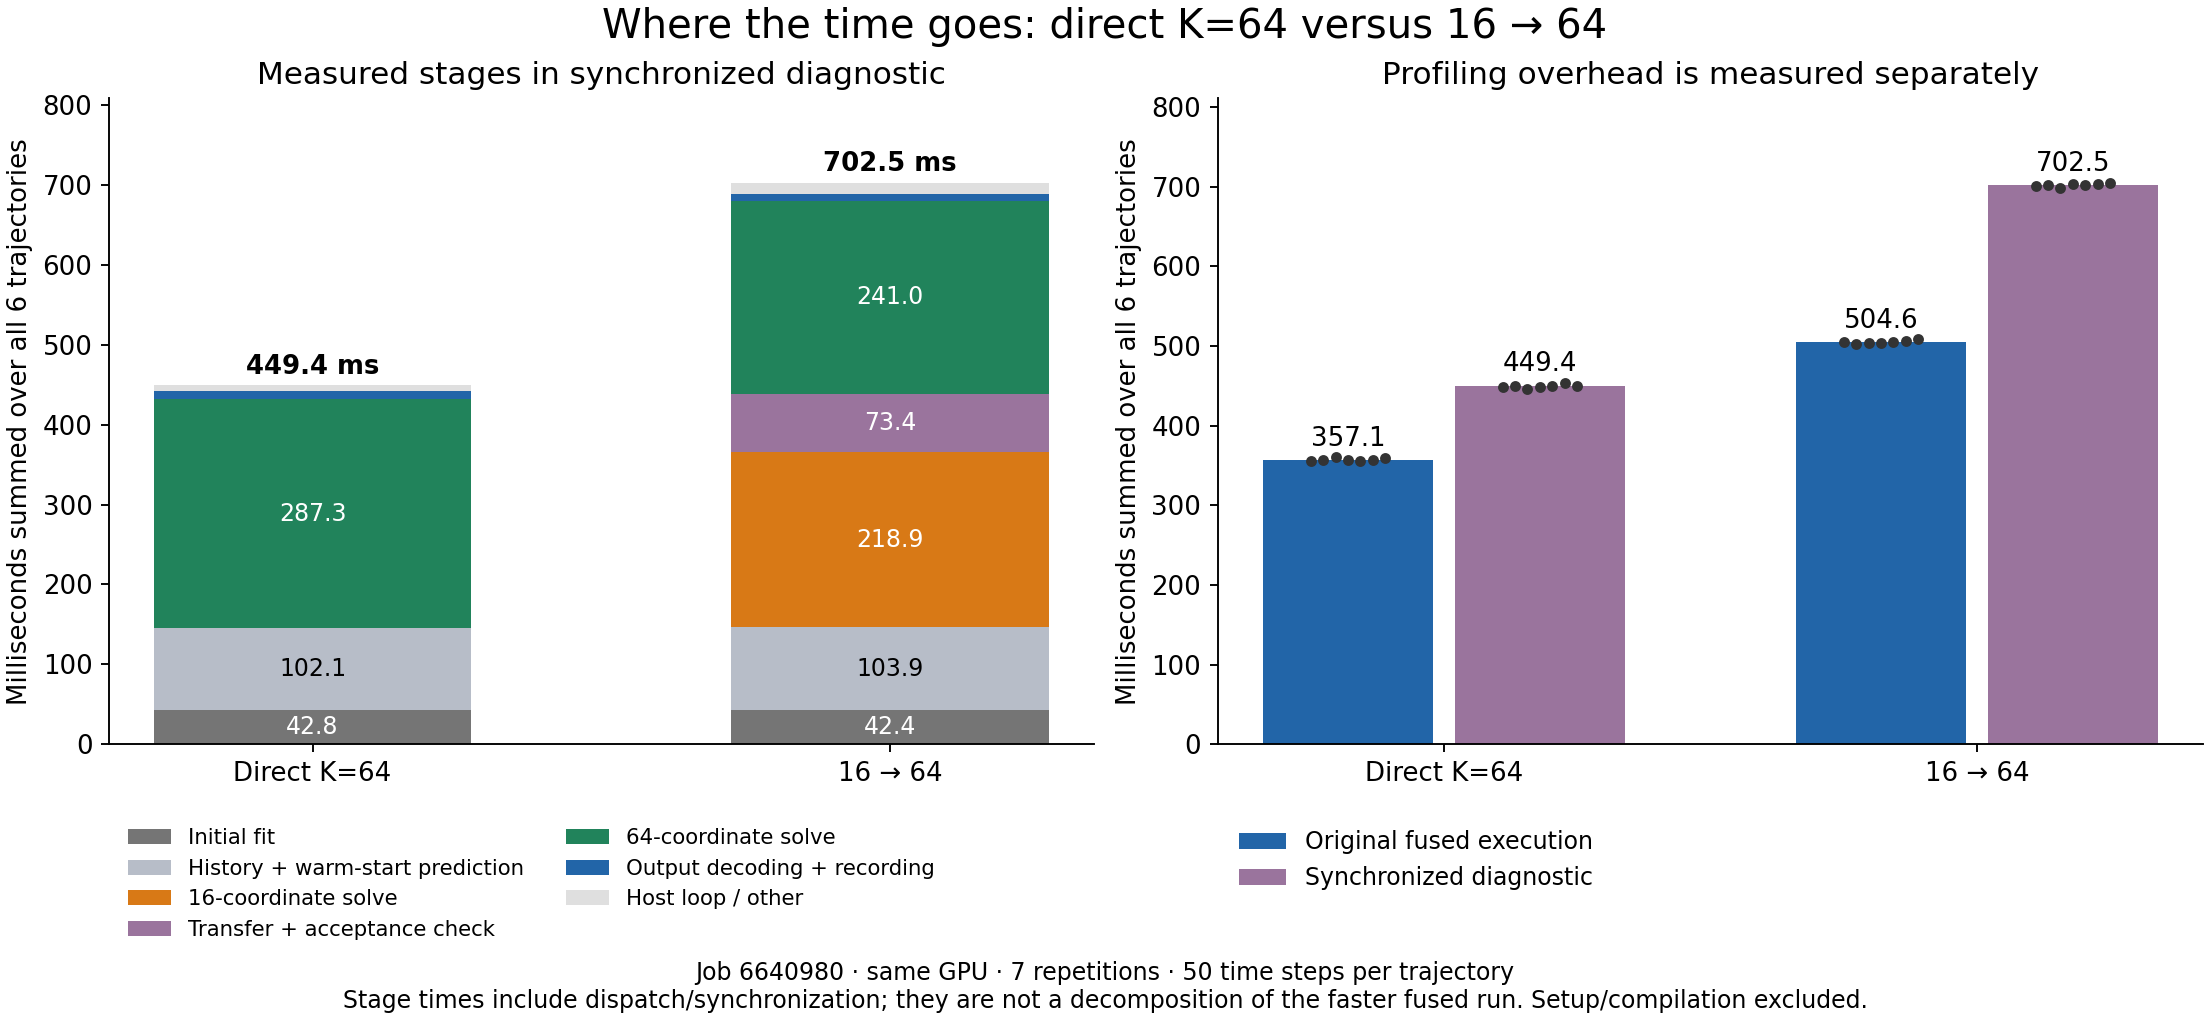
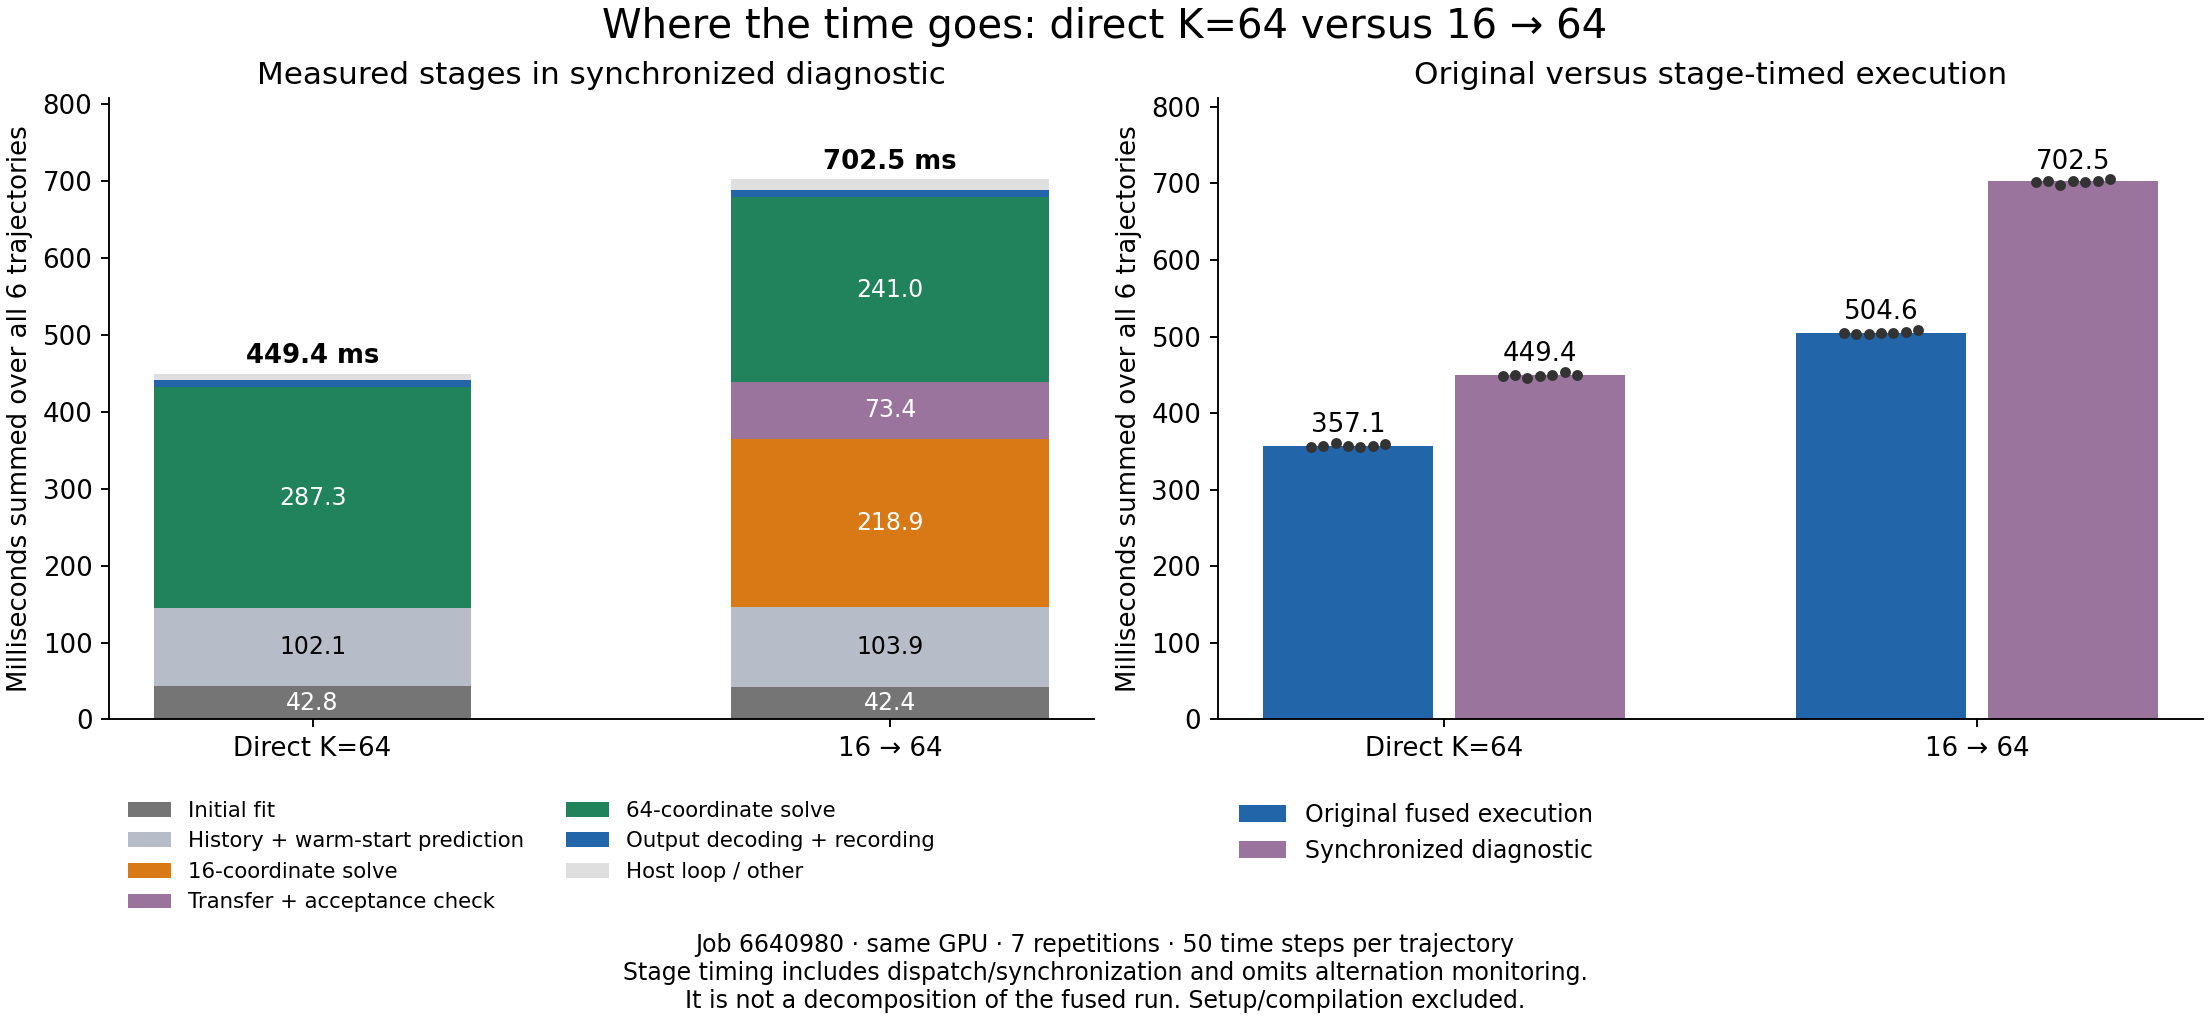
mirror of 5db815d75: Record independent timing audit and verified retention closure

diff --git a/experiments/burgers-shared/profile/plot.py b/experiments/burgers-shared/profile/plot.py
@@ -25,7 +25,7 @@ summary=dict(job_id=x['job_id'],source_sha256=hashlib.sha256(SRC.read_bytes()).h
  method='Sum six query times within each repetition; select median-total repetition separately for each arm. All components in each stack come from that repetition.',
  selected_block=selected,stage_ms=stages,totals_ms={f'{a}_{m}':sums[a,m].tolist() for a in arms for m in modes},
  median_ms={f'{a}_{m}':float(np.median(sums[a,m])) for a in arms for m in modes},
- overhead_ratio={a:float(np.median(sums[a,'split']/sums[a,'fused'])) for a in arms},
+ diagnostic_runtime_ratio={a:float(np.median(sums[a,'split']/sums[a,'fused'])) for a in arms},
  max_state_gap=max(t.get('max_state_gap',0.) for t in x['timings']),caveats=x['caveats'])
 summary['outlier_counts_tukey']={}
 for (a,m),v in sums.items():
@@ -51,10 +51,10 @@ for mode,off,color,label in [('fused',-.18,'#2265a8','Original fused execution')
  for i,a in enumerate(arms):
   v=sums[a,mode];bx.scatter(pos[i]+np.linspace(-.07,.07,7),v,c='#333333',s=13,zorder=5)
   bx.text(pos[i],v.max()+max(bottom)*.02,f'{vals[i]:.1f}',ha='center')
-bx.set(xticks=[0,1],xticklabels=['Direct K=64','16 → 64'],ylabel='Milliseconds summed over all 6 trajectories',title='Profiling overhead is measured separately',ylim=(0,max(v.max() for v in sums.values())*1.15))
+bx.set(xticks=[0,1],xticklabels=['Direct K=64','16 → 64'],ylabel='Milliseconds summed over all 6 trajectories',title='Original versus stage-timed execution',ylim=(0,max(v.max() for v in sums.values())*1.15))
 bx.legend(loc='upper left',bbox_to_anchor=(0,-.10),frameon=False,fontsize=10)
 fig.suptitle('Where the time goes: direct K=64 versus 16 → 64',fontsize=17)
-fig.supxlabel(f"Job {x['job_id']} · same GPU · 7 repetitions · 50 time steps per trajectory\nStage times include dispatch/synchronization; they are not a decomposition of the faster fused run. Setup/compilation excluded.",fontsize=10)
+fig.supxlabel(f"Job {x['job_id']} · same GPU · 7 repetitions · 50 time steps per trajectory\nStage timing includes dispatch/synchronization and omits alternation monitoring.\nIt is not a decomposition of the fused run. Setup/compilation excluded.",fontsize=10)
 fig.savefig(OUT/'stage-time-breakdown.png',dpi=170);fig.savefig(OUT/'stage-time-breakdown.pdf')
 (OUT/'summary.json').write_text(json.dumps(summary,indent=2)+'\n')
 print(json.dumps(summary,indent=2))
